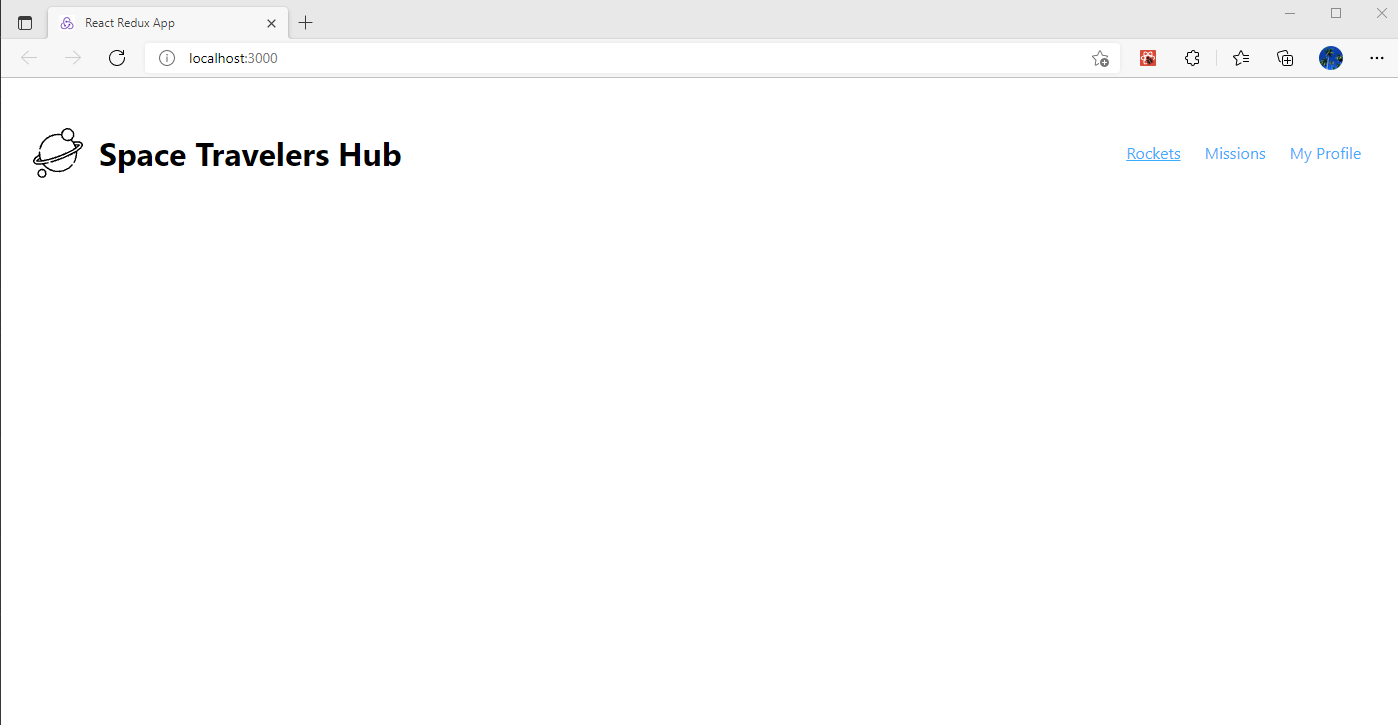
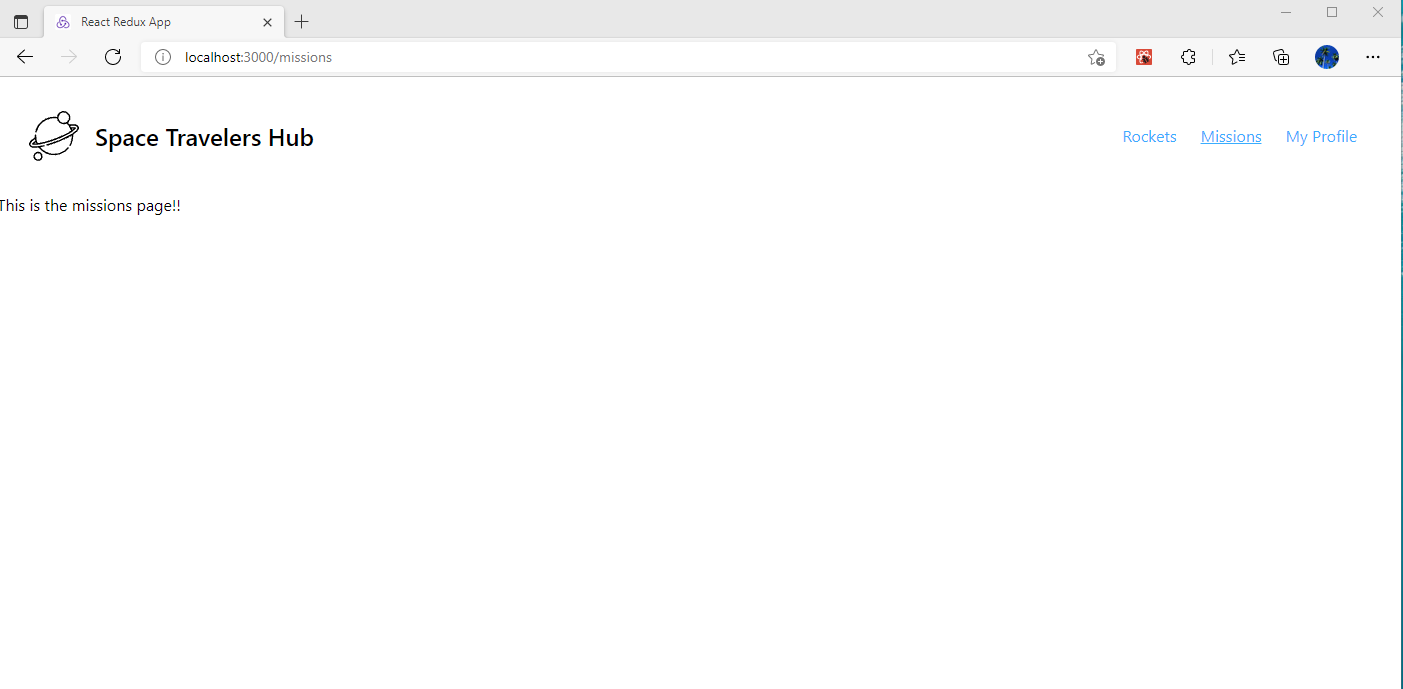
Create route and view for missions
Create route and view for missions

diff --git a/src/index.js b/src/index.js
@@ -15,6 +15,9 @@ ReactDOM.render(
           <Route path="/profile">
             <div>This is the Profile page!!</div>
           </Route>
+          <Route path="/missions">
+            <div>This is the missions page!!</div>
+          </Route>
         </Switch>
       </Router>
     </Provider>
